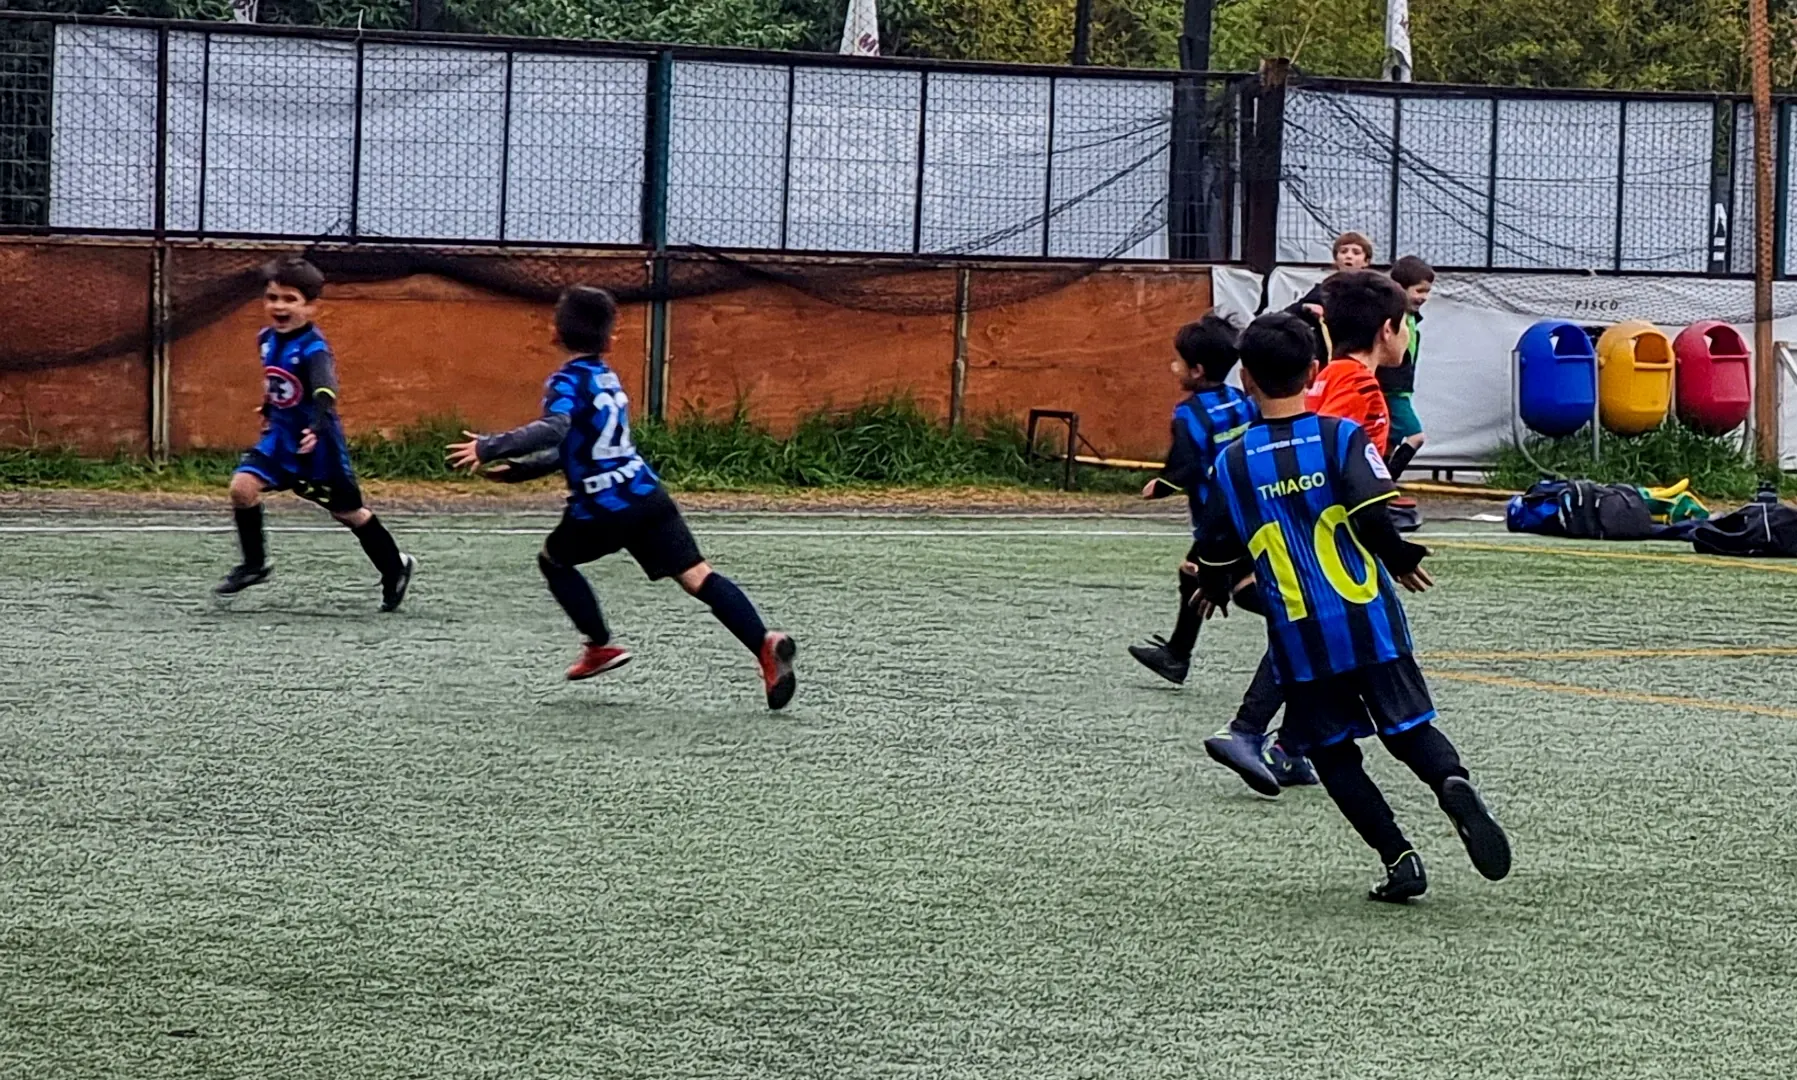
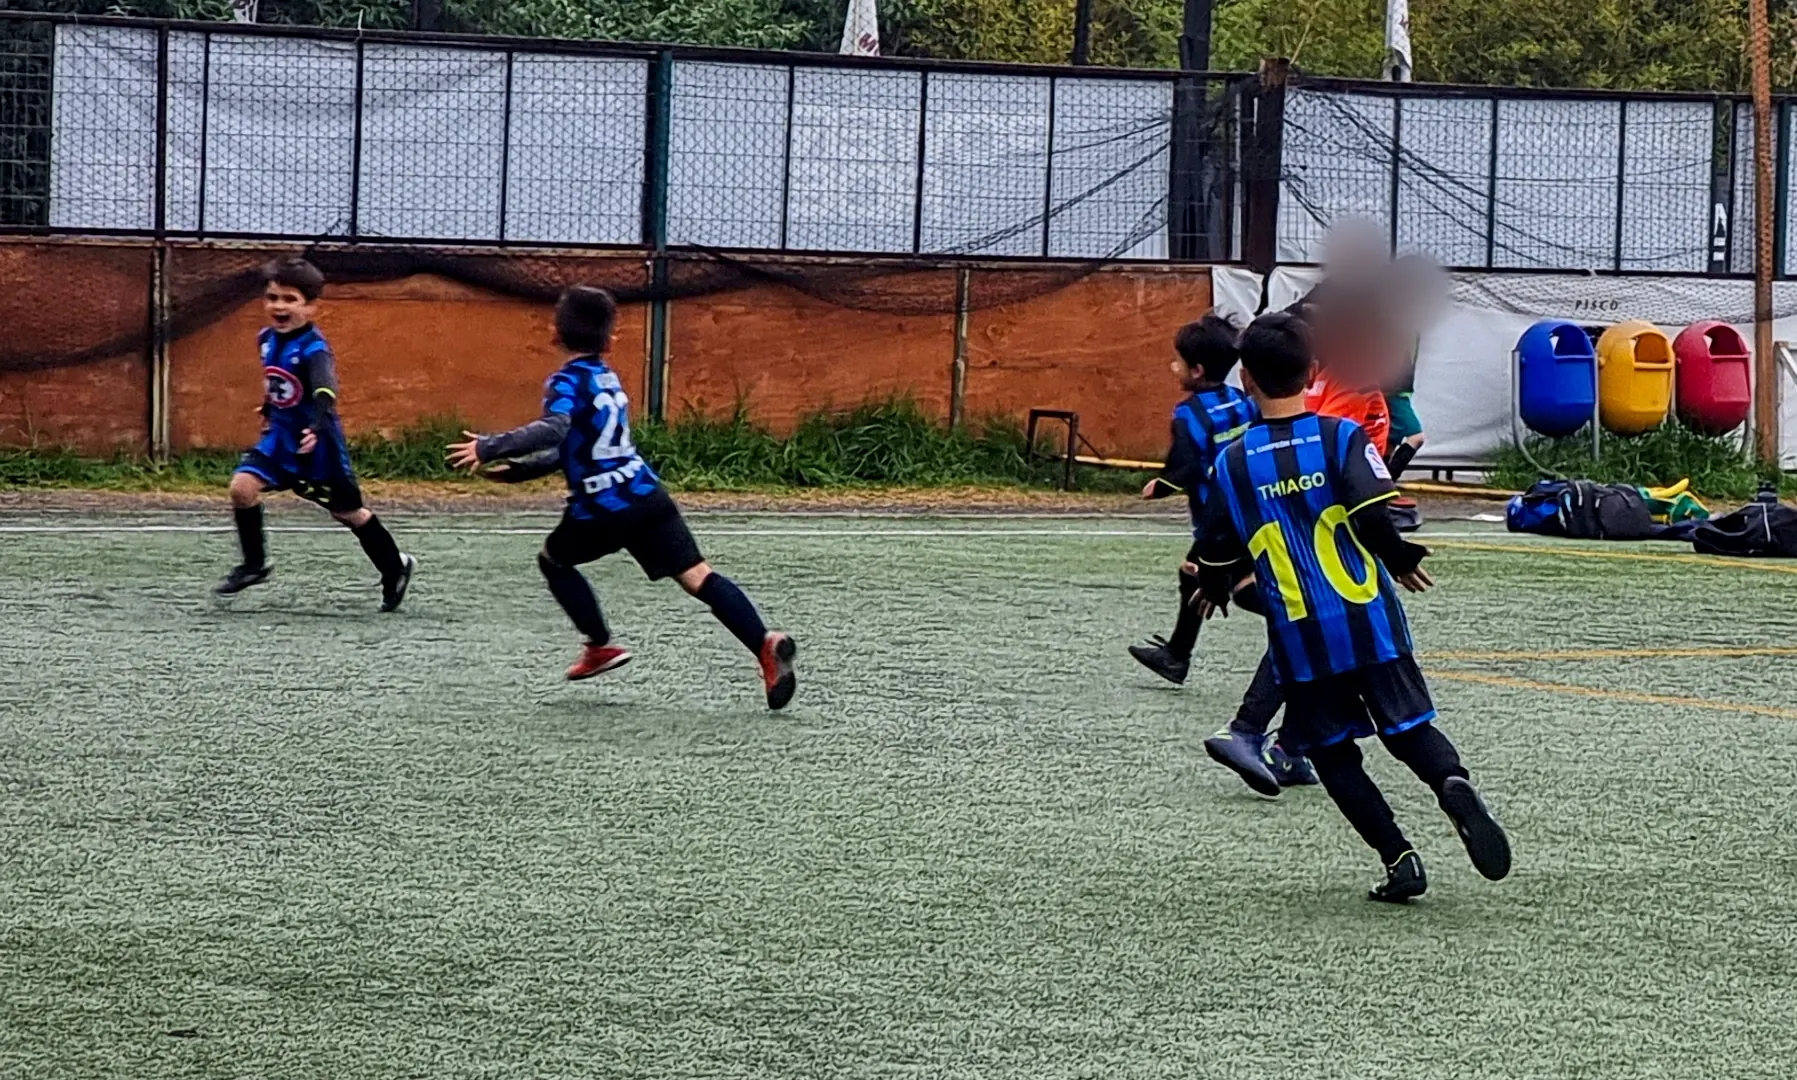
Blur other teams' faces, add privacy page and image-removal notice
- Blur faces of children from other teams (and the referee) in the match,
  corner-kick and celebration photos; regenerate gallery images
- New /privacidad page: data use (form is not stored), image consent in
  writing (Ley 19.628 art. 4), removal requests, rights incl. Ley 21.719
- Gallery footnote about authorization, blurred faces and photo removal by
  WhatsApp; privacy links in the booking form and footer
- README: privacy page and rules for adding photos of minors

Claude-Session: https://claude.ai/code/session_011eyvAs4fngz4Cg1aUHWy3E

Changed region(s): [[0.7168, 0.1833, 0.8102, 0.3972]]

diff --git a/privacidad.html b/privacidad.html
@@ -1,0 +1,109 @@
+<!DOCTYPE html>
+<html lang="es-CL">
+<head>
+  <meta charset="utf-8" />
+  <meta name="viewport" content="width=device-width,initial-scale=1" />
+  <meta name="theme-color" content="#0055A5" />
+  <title>Privacidad y uso de imágenes | Huachipato Huechuraba</title>
+  <meta name="description" content="Cómo trata Huachipato Huechuraba los datos de contacto y las imágenes de niños, niñas y adolescentes, y cómo ejercer tus derechos." />
+  <meta name="robots" content="index,follow" />
+  <link rel="canonical" href="https://huachipato-huechuraba.vercel.app/privacidad" />
+  <link rel="icon" href="/favicon.ico" sizes="32x32" />
+  <link rel="icon" type="image/png" sizes="64x64" href="/assets/favicon-64.png" />
+  <style>
+    @font-face{font-family:"Barlow Condensed";font-style:normal;font-weight:700;font-display:swap;src:url('/assets/fonts/barlow-condensed-700-latin.woff2') format('woff2')}
+    @font-face{font-family:"Inter";font-style:normal;font-weight:400 800;font-display:swap;src:url('/assets/fonts/inter-latin-var.woff2') format('woff2')}
+    :root{--blue:#0055A5;--navy:#071827;--ink:#152636;--muted:#536674;--line:#E5E7EB;--bone:#F1F0EC}
+    *{box-sizing:border-box}
+    html{scroll-behavior:smooth}
+    body{margin:0;font-family:Inter,system-ui,sans-serif;color:var(--ink);background:#fff;-webkit-font-smoothing:antialiased}
+    a{color:var(--blue)}
+    .bar{background:var(--navy);color:#fff}
+    .bar .wrap{display:flex;align-items:center;justify-content:space-between;gap:16px;height:72px}
+    .brand{display:flex;align-items:center;gap:10px;color:#fff;text-decoration:none;font-family:"Barlow Condensed",sans-serif;font-weight:700;text-transform:uppercase;font-size:1.2rem;line-height:.9}
+    .brand img{width:44px;height:44px}
+    .brand small{display:block;color:#8FD2FF;font-size:.7rem;letter-spacing:.14em;margin-top:4px}
+    .back{color:#fff;text-decoration:none;font-weight:600;font-size:.86rem;padding:10px 16px;border:1px solid rgba(255,255,255,.22);border-radius:999px;min-height:44px;display:inline-flex;align-items:center}
+    .back:hover{background:rgba(255,255,255,.1)}
+    .wrap{width:min(calc(100% - 32px),760px);margin:auto}
+    header.hero{background:var(--bone);padding:56px 0 44px}
+    .eyebrow{display:flex;align-items:center;gap:10px;width:fit-content;font-size:.74rem;font-weight:800;letter-spacing:.16em;text-transform:uppercase;color:var(--blue)}
+    .eyebrow::before{content:"";width:22px;height:2px;border-radius:2px;background:currentColor}
+    h1{font-family:"Barlow Condensed",sans-serif;font-weight:700;text-transform:uppercase;font-size:clamp(2.6rem,7vw,4rem);line-height:.92;margin:12px 0 14px;text-wrap:balance}
+    .updated{color:var(--muted);font-size:.88rem;margin:0}
+    main{padding:44px 0 72px}
+    h2{font-family:"Barlow Condensed",sans-serif;font-weight:700;text-transform:uppercase;font-size:1.7rem;line-height:1;margin:40px 0 12px;color:var(--navy)}
+    h2:first-child{margin-top:0}
+    p,li{font-size:1rem;line-height:1.7;color:#2B3B49}
+    ul{padding-left:1.2rem;margin:0 0 1rem}
+    li{margin-bottom:.4rem}
+    .note{background:var(--bone);border-radius:16px;padding:18px 20px;margin:22px 0}
+    .note p{margin:0}
+    .cta{display:inline-flex;align-items:center;justify-content:center;min-height:50px;padding:0 22px;border-radius:999px;background:var(--blue);color:#fff;font-weight:700;text-decoration:none;margin-top:6px}
+    .cta:hover{background:#0A66C2}
+    :focus-visible{outline:2px solid #0B73C9;outline-offset:3px}
+    footer{background:#020609;color:#93A0AA;padding:26px 0;font-size:.84rem}
+    footer .wrap{display:flex;justify-content:space-between;gap:16px;flex-wrap:wrap}
+    footer a{color:#C9D3DA}
+  </style>
+</head>
+<body>
+  <div class="bar">
+    <div class="wrap">
+      <a class="brand" href="/"><img src="/assets/huachipato-crest-3d.webp" alt="" width="44" height="44"><span>Huachipato<small>Huechuraba</small></span></a>
+      <a class="back" href="/">Volver al sitio</a>
+    </div>
+  </div>
+
+  <header class="hero">
+    <div class="wrap">
+      <div class="eyebrow">Transparencia</div>
+      <h1>Privacidad y uso de imágenes</h1>
+      <p class="updated">Última actualización: 13 de octubre de 2026</p>
+    </div>
+  </header>
+
+  <main>
+    <div class="wrap">
+      <h2>Quiénes somos</h2>
+      <p>Este sitio pertenece a la Escuela de Fútbol Huachipato Huechuraba, ubicada en Av. Los Libertadores 6788, Huechuraba, Región Metropolitana. Para cualquier consulta sobre esta política puedes escribirnos por WhatsApp al +56 9 4591 1596 o por Instagram en @escuela.huachipato.huechuraba.</p>
+
+      <h2>Qué datos usamos y para qué</h2>
+      <ul>
+        <li><strong>Formulario de clase de prueba.</strong> Pide el nombre del jugador, su fecha de nacimiento, el nombre del apoderado, un número de WhatsApp y la fecha elegida. Este sitio no los envía a ningún servidor ni los guarda: solo arma un mensaje en tu dispositivo y abre WhatsApp. Tú decides si lo envías. Si lo haces, la escuela recibe esos datos y los usa únicamente para coordinar la clase de prueba y, si el jugador se inscribe, su matrícula.</li>
+        <li><strong>Mensajes por WhatsApp.</strong> Una vez enviados, WhatsApp (Meta) los trata según su propia política de privacidad.</li>
+        <li><strong>Datos técnicos.</strong> Este sitio no usa cookies propias, ni herramientas de analítica o publicidad. El proveedor de alojamiento puede registrar datos técnicos, como la dirección IP, por motivos de seguridad y funcionamiento. El mapa de la sección Ubicación es un servicio de Google, que puede tratar datos según su propia política cuando el mapa se carga.</li>
+      </ul>
+      <p>Conservamos los datos de contacto solo el tiempo necesario para ese fin.</p>
+
+      <h2>Fotos y videos de niños, niñas y adolescentes</h2>
+      <ul>
+        <li>Publicamos imágenes de menores de edad solo con la autorización por escrito de su padre, madre o apoderado, en los términos de la Ley N° 19.628 sobre protección de la vida privada.</li>
+        <li>La autorización indica para qué se usan las imágenes (este sitio web, redes sociales y material de la escuela) y puede revocarse por escrito en cualquier momento, sin efecto sobre lo ya publicado.</li>
+        <li>No publicamos el nombre completo de los menores junto a sus fotos.</li>
+        <li>Los niños y niñas de otros equipos que aparecen por casualidad en fotos de partidos y torneos se muestran con el rostro difuminado.</li>
+      </ul>
+      <div class="note">
+        <p><strong>¿Apareces o aparece tu hijo o hija en una foto y quieres que la retiremos?</strong> Escríbenos indicando cuál es la foto y la quitamos a la brevedad, sin necesidad de explicar los motivos.</p>
+      </div>
+      <a class="cta" href="https://wa.me/56945911596?text=Hola%2C%20quiero%20solicitar%20el%20retiro%20de%20una%20foto%20del%20sitio%20web%20de%20Huachipato%20Huechuraba." target="_blank" rel="noopener">Solicitar retiro por WhatsApp</a>
+
+      <h2>Tus derechos</h2>
+      <p>Puedes pedirnos en cualquier momento que te informemos qué datos tuyos tenemos, que los corrijamos, que los eliminemos o que dejemos de usarlos. Estos derechos están reconocidos en la Ley N° 19.628 y serán ampliados por la Ley N° 21.719, sobre protección de datos personales, desde su entrada en vigencia. En el caso de un menor, los ejerce su apoderado. Para hacerlo, escríbenos por WhatsApp al +56 9 4591 1596.</p>
+
+      <h2>Seguridad</h2>
+      <p>El sitio se sirve por conexión cifrada (HTTPS) y no almacena los datos que escribes en el formulario. Los mensajes que recibimos por WhatsApp se resguardan en el dispositivo de la escuela y solo accede a ellos el personal que los necesita.</p>
+
+      <h2>Cambios en esta política</h2>
+      <p>Si cambiamos la forma en que tratamos los datos o las imágenes, actualizaremos esta página y la fecha de más arriba.</p>
+    </div>
+  </main>
+
+  <footer>
+    <div class="wrap">
+      <span>© 2026 Huachipato Huechuraba</span>
+      <a href="/">Volver al sitio</a>
+    </div>
+  </footer>
+</body>
+</html>

diff --git a/index.html b/index.html
@@ -706,6 +706,12 @@
       .footer-credit img{height:20px}
     }
 
+    /* LEGAL V35 */
+    .gallery-note{margin:22px 0 0;max-width:820px;font-size:.84rem;line-height:1.65;color:#9DB0BD}
+    .gallery-note a{color:#CFE6F5;text-decoration:underline;text-underline-offset:3px}
+    .gallery-note a:hover{color:#fff}
+    .form-note a{color:var(--blue);font-weight:600;text-decoration:underline;text-underline-offset:3px}
+
   </style>
 </head>
 <body>
@@ -882,6 +888,7 @@
           <div class="g-row"><button class="g-item g-02" type="button" style="--ar:0.563" data-full="assets/galeria-02-lg.webp" data-index="1" aria-label="Ampliar foto: Día de partido"><img src="assets/galeria-02-sm.webp" srcset="assets/galeria-02-sm.webp 507w, assets/galeria-02-lg.webp 1013w" sizes="(max-width:720px) 50vw, 460px" alt="Jugador de Huachipato Huechuraba disputando un partido" loading="lazy" decoding="async"><span class="g-cap">Día de partido</span></button><button class="g-item g-03" type="button" style="--ar:1.333" data-full="assets/galeria-03-lg.webp" data-index="2" aria-label="Ampliar foto: Copa Acción Total"><img src="assets/galeria-03-sm.webp" srcset="assets/galeria-03-sm.webp 900w, assets/galeria-03-lg.webp 1024w" sizes="(max-width:720px) 50vw, 460px" alt="Jugadores con medallas junto a la copa del torneo Acción Total" loading="lazy" decoding="async"><span class="g-cap">Copa Acción Total</span></button><button class="g-item g-04" type="button" style="--ar:1.227" data-full="assets/galeria-04-sm.webp" data-index="3" aria-label="Ampliar foto: Equipo y staff"><img src="assets/galeria-04-sm.webp" srcset="assets/galeria-04-sm.webp 806w" sizes="(max-width:720px) 50vw, 460px" alt="Equipo de Huachipato Huechuraba junto a su entrenador" loading="lazy" decoding="async"><span class="g-cap">Equipo y staff</span></button></div>
           <div class="g-row"><button class="g-item g-05" type="button" style="--ar:1.664" data-full="assets/galeria-05-lg.webp" data-index="4" aria-label="Ampliar foto: Celebrar juntos"><img src="assets/galeria-05-sm.webp" srcset="assets/galeria-05-sm.webp 900w, assets/galeria-05-lg.webp 1797w" sizes="(max-width:720px) 50vw, 460px" alt="Jugadores celebrando un gol" loading="lazy" decoding="async"><span class="g-cap">Celebrar juntos</span></button><button class="g-item g-06" type="button" style="--ar:1.522" data-full="assets/galeria-06-lg.webp" data-index="5" aria-label="Ampliar foto: Partido a partido"><img src="assets/galeria-06-sm.webp" srcset="assets/galeria-06-sm.webp 900w, assets/galeria-06-lg.webp 1800w" sizes="(max-width:720px) 50vw, 460px" alt="Jugadores esperando un balón detenido durante un partido" loading="lazy" decoding="async"><span class="g-cap">Partido a partido</span></button></div>
         </div>
+        <p class="gallery-note">Fotos de entrenamientos y torneos publicadas con autorización de los apoderados. Los niños de otros equipos aparecen con el rostro difuminado. ¿Apareces en una foto y quieres que la retiremos? <a href="https://wa.me/56945911596" data-wa="Hola, quiero solicitar el retiro de una foto del sitio web de Huachipato Huechuraba." target="_blank" rel="noopener">Escríbenos por WhatsApp</a> y la quitamos a la brevedad. <a href="/privacidad">Política de privacidad</a>.</p>
       </div>
     </section>
 
@@ -907,7 +914,7 @@
             <div class="field"><label for="guardianPhone">WhatsApp</label><input id="guardianPhone" required type="tel" inputmode="tel" autocomplete="tel" pattern="^\+?[0-9 ]{8,18}$" title="Número de WhatsApp, ej: +56 9 1234 5678" placeholder="+56 9 ..." aria-describedby="phoneHelp"><small class="field-help" id="phoneHelp">Te confirmamos la clase por este número.</small></div>
             <div class="field full"><label for="trialDate">Próxima fecha</label><select id="trialDate" required></select></div>
           </div>
-          <p class="form-note">La categoría es una referencia para temporada <span id="seasonYear">2026</span> y puede ser confirmada por la escuela. Usamos estos datos solo para coordinar tu clase por WhatsApp; este sitio no los almacena.</p>
+          <p class="form-note">La categoría es una referencia para temporada <span id="seasonYear">2026</span> y puede ser confirmada por la escuela. Usamos estos datos solo para coordinar tu clase por WhatsApp; este sitio no los almacena. <a href="/privacidad">Política de privacidad</a>.</p>
           <button class="btn btn-primary" type="submit">Solicitar clase gratis</button>
           <p class="form-status" id="formStatus" role="status" aria-live="polite"></p>
         </form>
@@ -979,7 +986,7 @@
         <div class="footer-brand"><img src="assets/huachipato-crest-vector.webp" alt="" loading="lazy" decoding="async" width="52" height="52"><div><h3>Huachipato Huechuraba</h3><p>Formación · disciplina · competencia.</p></div></div>
         <div><h3>Entrenamiento</h3><p>Lunes y miércoles<br>18:00 — 19:30 hrs<br>Sub-7 a Sub-15</p></div>
         <div><h3>Contacto</h3><p><a href="tel:+56945911596">+56 9 4591 1596</a><br>Av. Los Libertadores 6788<br>Huechuraba</p></div>
-        <nav class="footer-links" aria-label="Enlaces del pie"><h3>Explorar</h3><a href="#escuela">La escuela</a><a href="#metodo">Entrenamiento</a><a href="#galeria">Galería</a><a href="#clase">Clase gratis</a><a href="#faq">Preguntas frecuentes</a></nav>
+        <nav class="footer-links" aria-label="Enlaces del pie"><h3>Explorar</h3><a href="#escuela">La escuela</a><a href="#metodo">Entrenamiento</a><a href="#galeria">Galería</a><a href="#clase">Clase gratis</a><a href="#faq">Preguntas frecuentes</a><a href="/privacidad">Privacidad</a></nav>
       </div>
       <div class="footer-bottom"><div class="footer-meta"><span>© 2026 Huachipato Huechuraba</span></div><div class="footer-right"><a class="footer-credit" href="https://alexanderestrada.com/?utm_source=huachipato-huechuraba&amp;utm_medium=referral&amp;utm_campaign=footer-credit" target="_blank" rel="noopener" aria-label="Diseño y desarrollo por Alexander Estrada, abre alexanderestrada.com"><span>Diseño y desarrollo</span><img src="assets/credito-ae.png" alt="Alexander Estrada" width="43" height="18" decoding="async"></a><div class="footer-social"><a href="https://www.instagram.com/escuela.huachipato.huechuraba/" target="_blank" rel="noopener" aria-label="Instagram"><svg viewBox="0 0 24 24" fill="none" stroke="currentColor" stroke-width="1.8" aria-hidden="true"><rect x="3" y="3" width="18" height="18" rx="5"/><circle cx="12" cy="12" r="4"/><circle cx="17.5" cy="6.5" r="1" fill="currentColor" stroke="none"/></svg></a><a href="https://wa.me/56945911596" class="footer-wa" data-wa="Hola, vi la página de Huachipato Huechuraba y quiero más información." target="_blank" rel="noopener" aria-label="WhatsApp"><svg viewBox="0 0 32 32" aria-hidden="true"><path fill="currentColor" d="M19.11 17.32c-.27-.13-1.6-.79-1.84-.88-.25-.09-.43-.13-.61.14-.18.27-.7.88-.86 1.06-.16.18-.32.2-.59.07-.27-.13-1.13-.42-2.16-1.35-.8-.72-1.33-1.61-1.49-1.88-.16-.27-.02-.41.12-.54.12-.12.27-.32.41-.48.13-.16.18-.27.27-.45.09-.18.05-.34-.02-.48-.07-.13-.61-1.47-.84-2.01-.22-.53-.45-.45-.61-.46h-.52c-.18 0-.48.07-.73.34-.25.27-.95.93-.95 2.27s.98 2.63 1.11 2.81c.13.18 1.92 2.93 4.65 4.11.65.28 1.15.44 1.54.56.65.21 1.24.18 1.71.11.52-.08 1.6-.65 1.82-1.27.23-.63.23-1.16.16-1.27-.07-.11-.25-.18-.52-.32Z"/><path fill="currentColor" d="M16.02 3.2c-6.98 0-12.63 5.64-12.63 12.6 0 2.22.58 4.39 1.68 6.3L3.2 28.8l6.87-1.8a12.62 12.62 0 0 0 5.95 1.51h.01c6.97 0 12.62-5.65 12.62-12.61 0-3.37-1.31-6.54-3.7-8.92A12.55 12.55 0 0 0 16.02 3.2Zm0 22.97h-.01a10.48 10.48 0 0 1-5.34-1.46l-.38-.22-4.08 1.07 1.09-3.98-.25-.41a10.3 10.3 0 0 1-1.58-5.43c0-5.73 4.68-10.39 10.43-10.39 2.79 0 5.4 1.08 7.36 3.04a10.3 10.3 0 0 1 3.05 7.35c0 5.74-4.69 10.41-10.29 10.43Z"/></svg></a></div></div></div>
     </div>

diff --git a/README.md b/README.md
@@ -8,6 +8,11 @@ Sitio estático single-file desplegado en Vercel: https://huachipato-huechuraba.
 - `assets/` — imágenes y fuentes (`assets/fonts`, servidas desde el propio sitio) usadas por la página.
 - `vercel.json` — cabeceras de seguridad (CSP, HSTS, etc.) y caché de `assets/`.
 - `404.html`, `favicon.ico`, `site.webmanifest` — página de error, iconos y manifiesto.
+- `privacidad.html` — política de privacidad y uso de imágenes (se publica en `/privacidad`). Si se agrega analítica, cookies o formularios con base de datos, hay que actualizarla.
+
+## Fotos de menores
+
+Publicar solo fotos de jugadores con autorización escrita del apoderado. Los niños de otros equipos van con el rostro difuminado. Antes de agregar fotos nuevas a la galería, revisar ambas cosas.
 - `og-huachipato.jpg` — imagen para compartir en redes (cambiar `?v=` en las meta `og:image`/`twitter:image` al reemplazarla).
 
 ## Flujo de cambios
